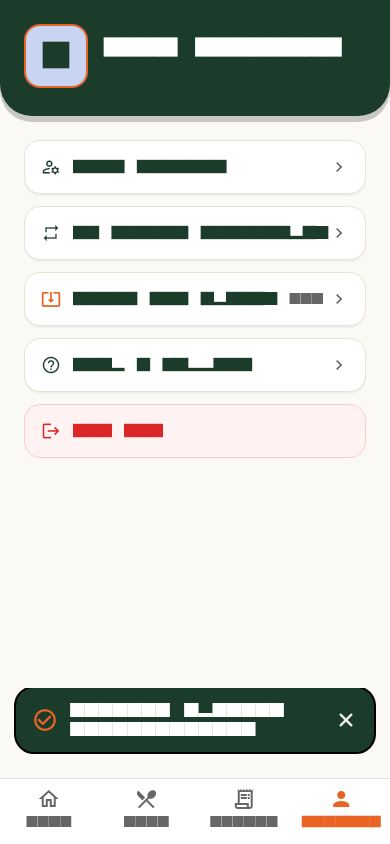
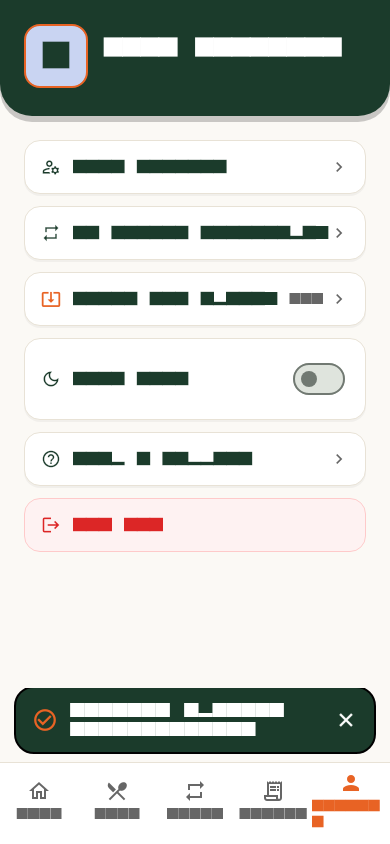
Add direct http dep; initializing formal lint fix

diff --git a/lib/update/app_update.dart b/lib/update/app_update.dart
@@ -65,19 +65,13 @@ class UpdateChecker {
     Future<void> Function()? openInstallSettings,
     Future<Directory> Function()? cacheDir,
     DateTime Function()? clock,
-    Future<File> Function(
-      UpdateInfo info, {
-      void Function(int received, int? total)? onProgress,
-      Stream<void>? cancelToken,
-    })?
-    downloader,
+    this._downloader,
   }) : _client = client ?? http.Client(),
        _currentVersion = currentVersion ?? _nativeVersion,
        _installer = installer ?? _nativeInstall,
        _canInstall = canInstall ?? _nativeCanInstall,
        _openInstallSettings = openInstallSettings ?? _nativeOpenSettings,
        _cacheDir = cacheDir ?? _nativeCacheDir,
-       _downloader = downloader,
        _clock = clock ?? DateTime.now;
 
   static const _channel = MethodChannel('app/update');
